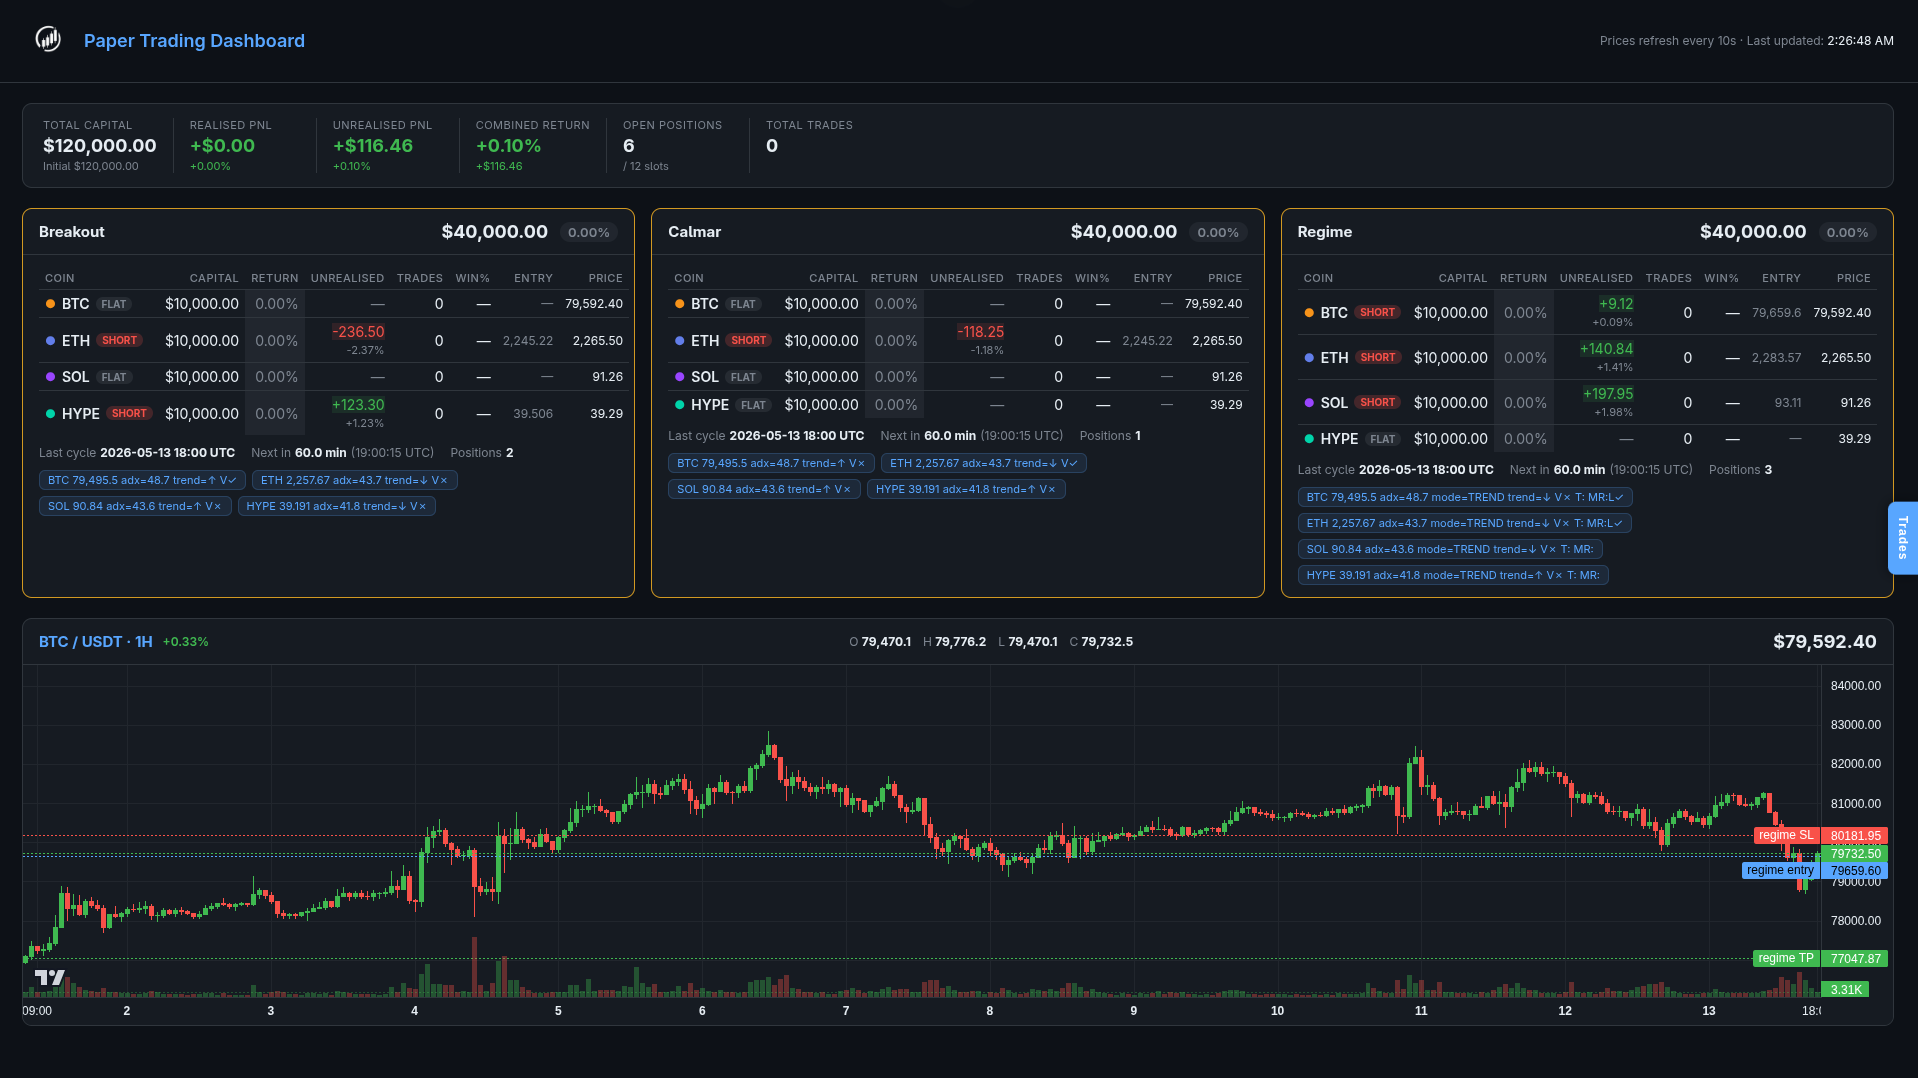
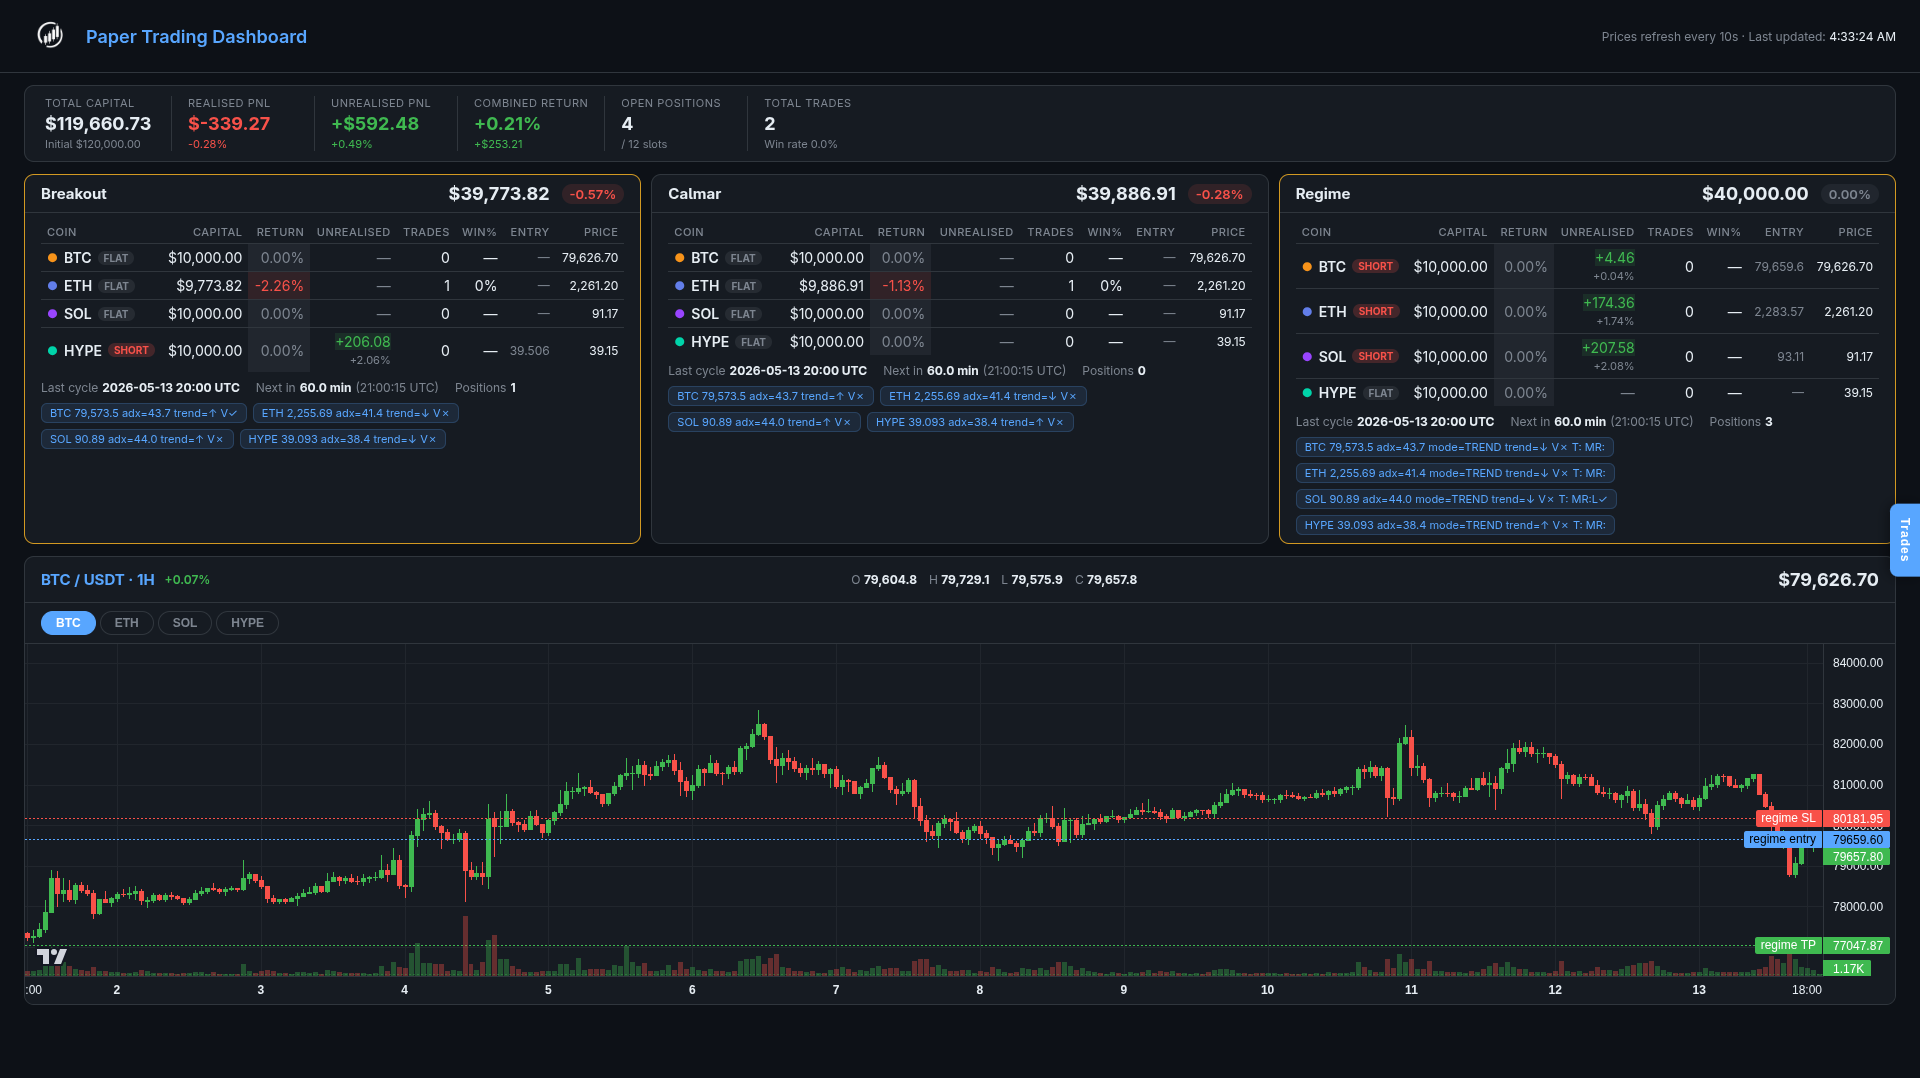
view fixed

diff --git a/dashboard/static/index.html b/dashboard/static/index.html
@@ -20,20 +20,20 @@
   * { box-sizing: border-box; margin: 0; padding: 0; }
   body { background: var(--bg); color: var(--text); font-family: 'Segoe UI', system-ui, sans-serif; font-size: 14px; }
 
-  header { display: flex; align-items: center; justify-content: space-between; padding: 16px 24px; border-bottom: 1px solid var(--border); }
+  header { display: flex; align-items: center; justify-content: space-between; padding: 10px 24px; border-bottom: 1px solid var(--border); }
   header h1 { font-size: 18px; font-weight: 600; color: var(--blue); }
   #refresh-info { color: var(--muted); font-size: 12px; }
   #last-updated { color: var(--text); }
 
-  main { padding: 20px 24px; display: flex; flex-direction: column; gap: 20px; }
+  main { padding: 12px 24px; display: flex; flex-direction: column; gap: 12px; }
 
   /* ── Strategy cards ── */
-  .strategy-grid { display: grid; grid-template-columns: repeat(auto-fill, minmax(480px, 1fr)); gap: 16px; }
+  .strategy-grid { display: grid; grid-template-columns: repeat(auto-fill, minmax(480px, 1fr)); gap: 10px; }
 
   .strategy-card { background: var(--card); border: 1px solid var(--border); border-radius: 10px; overflow: hidden; }
   .strategy-card.has-position { border-color: var(--yellow); }
 
-  .card-header { display: flex; align-items: center; justify-content: space-between; padding: 12px 16px; border-bottom: 1px solid var(--border); }
+  .card-header { display: flex; align-items: center; justify-content: space-between; padding: 8px 16px; border-bottom: 1px solid var(--border); }
   .strategy-name { font-weight: 700; font-size: 15px; text-transform: capitalize; }
   .card-meta { display: flex; gap: 12px; align-items: center; }
   .total-cap { font-size: 18px; font-weight: 700; }
@@ -42,7 +42,7 @@
   .neg { color: var(--red); background: rgba(248,81,73,.12); }
   .zero { color: var(--muted); background: rgba(125,133,144,.1); }
 
-  .card-body { padding: 12px 16px; display: flex; flex-direction: column; gap: 10px; }
+  .card-body { padding: 8px 16px; display: flex; flex-direction: column; gap: 8px; }
 
   /* coin rows */
   .coin-table { width: 100%; border-collapse: collapse; }
@@ -85,7 +85,7 @@
   .overview-bar {
     display: flex; flex-wrap: wrap; gap: 12px;
     background: var(--card); border: 1px solid var(--border); border-radius: 10px;
-    padding: 14px 20px;
+    padding: 10px 20px;
   }
   .ov-item { display: flex; flex-direction: column; gap: 3px; min-width: 110px; }
   .ov-label { font-size: 11px; color: var(--muted); text-transform: uppercase; letter-spacing: .5px; }
@@ -101,7 +101,7 @@
   }
 
   /* ── Main layout ── */
-  .main-col { display: flex; flex-direction: column; gap: 20px; }
+  .main-col { display: flex; flex-direction: column; gap: 12px; }
 
   /* ── Drawer toggle button ── */
   .drawer-btn {
@@ -735,7 +735,7 @@ document.getElementById('chart-coin-tabs').addEventListener('click', e => {
 renderTabs();
 loadTrades(activeTab);
 refresh();
-setInterval(refreshPrices, 10000);
+setInterval(refreshPrices, 2000);
 </script>
 </body>
 </html>